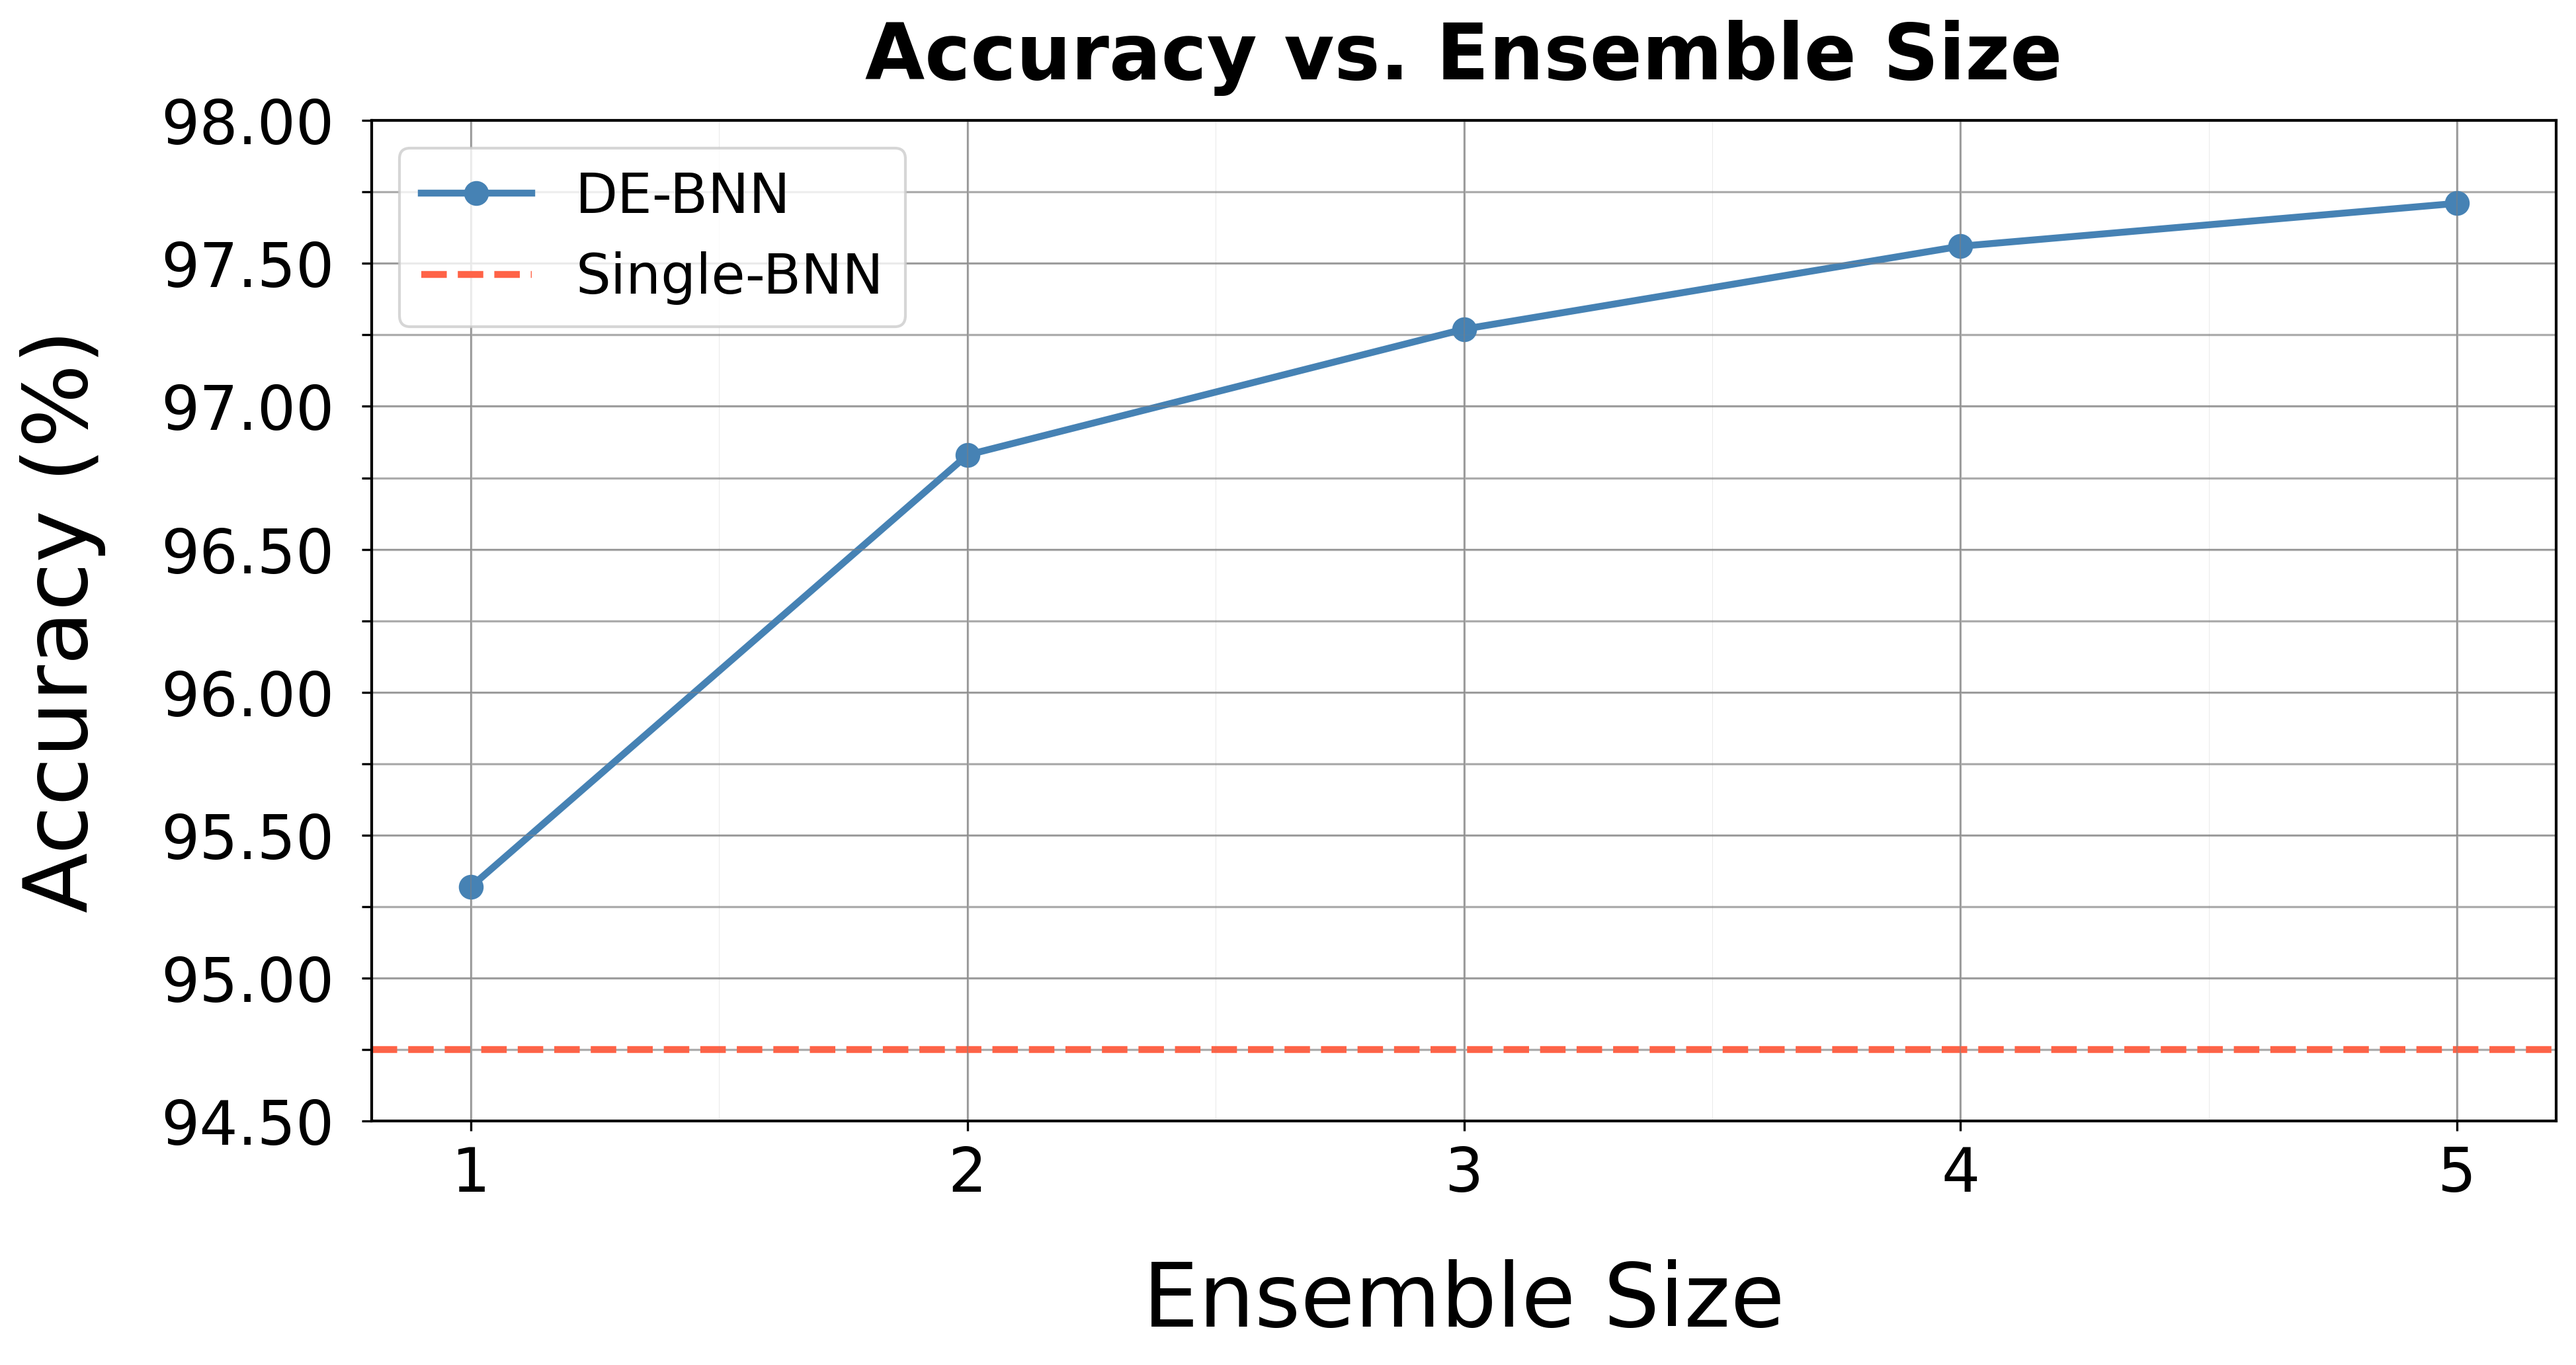
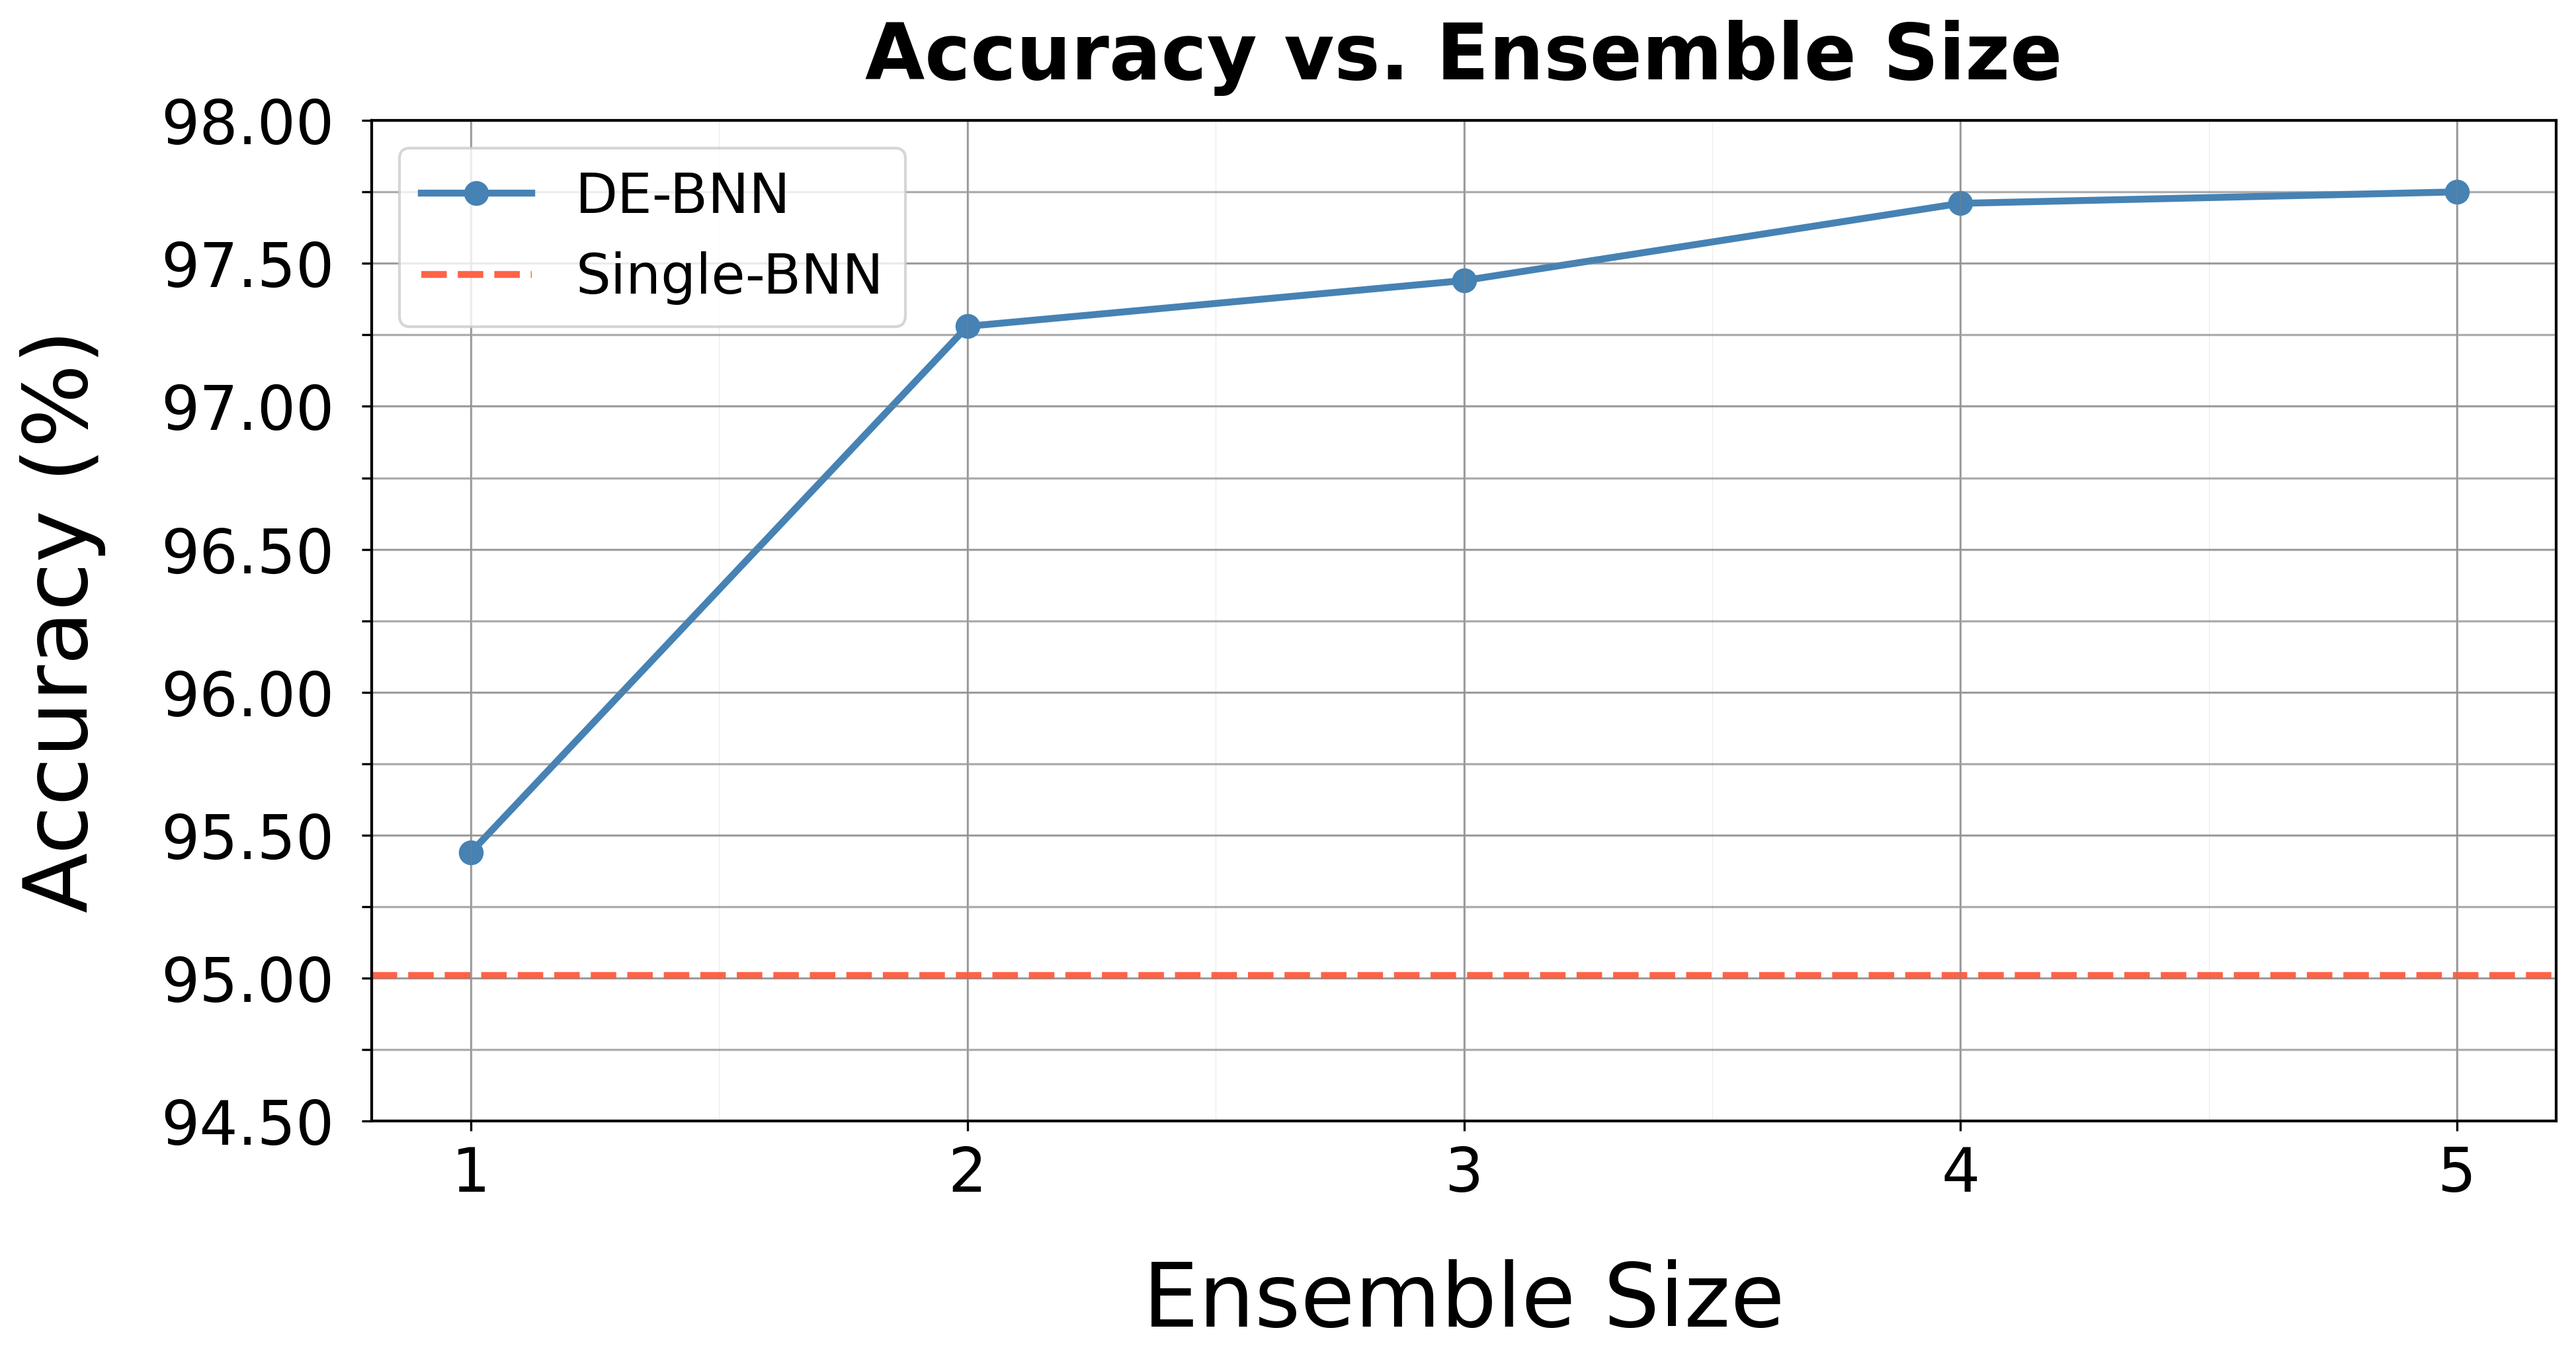
Changes

diff --git a/plots/Plots_main.py b/plots/Plots_main.py
@@ -8,7 +8,7 @@ from sklearn.model_selection import train_test_split
 import pandas as pd
 import matplotlib.pyplot as plt
 from Model_Code.Save_and_Load_Models import save_bnn_model, load_bnn_model
-from Model_Code.Ensemble_helper import train_deep_ensemble, evaluate_model, ensemble_predict_proba
+from Model_Code.Ensemble_helper import train_deep_ensemble, evaluate_model, ensemble_predict_proba, TestAccCB
 import matplotlib.ticker as mtick
 
 seed = 42
@@ -17,8 +17,8 @@ np.random.seed(seed)
 tf.random.set_seed(seed)
 
 #%% Load MNIST or CIFAR-10 and apply preprocessing
-(x_train_full, y_train_full), (x_test, y_test) = tf.keras.datasets.cifar10.load_data()
-#(x_train_full, y_train_full), (x_test, y_test) = tf.keras.datasets.mnist.load_data()  # Uncomment if using MNIST
+#(x_train_full, y_train_full), (x_test, y_test) = tf.keras.datasets.cifar10.load_data()
+(x_train_full, y_train_full), (x_test, y_test) = tf.keras.datasets.mnist.load_data()  # Uncomment if using MNIST
 
 # Normalize pixel values
 x_train_full = x_train_full.astype("float32") / 255.0
@@ -57,7 +57,7 @@ ensemble = []
 
 #%% Train DE-BNN
 
-ensemble = train_deep_ensemble(x_train, y_train, x_val, y_val, input_shape, num_classes, epochs = 20, n_models=5)
+ensemble = train_deep_ensemble(x_train, y_train, x_val, y_val, input_shape, num_classes, epochs = 10, n_models=5)
 
 # 1. Instantiate your model
 single_bnn = ConvolutionalBNN(
@@ -71,14 +71,30 @@ single_bnn = ConvolutionalBNN(
 # 2. Compile your model
 single_bnn.compile()
 
-# 3. Train the model
+# Dummy-Fit, damit Label-Mapping entsteht (einmal reicht)
+_ = single_bnn.fit(
+    x_train,
+    y_train,
+    epochs=1,
+    batch_size=64,
+    verbose=0
+)
+
+test_acc_cb = TestAccCB(
+    x_test=x_test,
+    y_test=y_test,
+    index_to_label=single_bnn.index_to_label
+)
+
+# 3. Jetzt Training mit Callback
 history = single_bnn.fit(
     x_train,
     y_train,
     validation_data=(x_val, y_val),
-    epochs=100,         # or any desired number of epochs
-    batch_size=64,    # or any suitable batch size
-    verbose=1
+    epochs=50,
+    batch_size=64,
+    verbose=1,
+    callbacks=[test_acc_cb]
 )
 
 #%% Evaluate both models
@@ -114,61 +130,45 @@ for k in range(1, len(ensemble) + 1):
 df_ensemble_metrics = pd.DataFrame(results_per_size)
 print(df_ensemble_metrics)
 
-plots = plot_ensemble_metrics(df_ensemble_metrics, evaluate_model(y_test, y_proba_single, num_classes=10) , mnist=False)
+plots = plot_ensemble_metrics(df_ensemble_metrics, evaluate_model(y_test, y_proba_single, num_classes=10) , mnist=True)
 
 save_plots(plots, output_dir="plots/Saved_Plots/Plots_fair_comparison")
 
 #Train/Val/Test Accuracy plot
-num_epochs = 100
-batch_size = 64
+epochs = range(1, len(history.history['accuracy']) + 1)
 
-train_accs = []
-val_accs = []
-test_accs = []
+train_accs = history.history['accuracy']
+val_accs = history.history['val_accuracy']
+test_accs = test_acc_cb.scores
+epochs = range(1, len(train_accs) + 1)
 
-for epoch in range(num_epochs):
-    # Accuracy on train, val, test
-    train_acc = single_bnn.evaluate_accuracy(x_train, y_train)
-    val_acc = single_bnn.evaluate_accuracy(x_val, y_val)
-    test_acc = single_bnn.evaluate_accuracy(x_test, y_test)
-
-    train_accs.append(train_acc)
-    val_accs.append(val_acc)
-    test_accs.append(test_acc)
-
-    print(f"Epoch {epoch + 1:02d}: Train={train_acc:.4f}  Val={val_acc:.4f}  Test={test_acc:.4f}")
-
-epochs = np.arange(1, num_epochs + 1)
 fig, ax = plt.subplots(figsize=(12, 6))
 
-ax.plot(epochs, train_accs, label='Train Accuracy', color = "dodgerblue")
-ax.plot(epochs, val_accs, label='Validation Accuracy', color = "darkorange")
-ax.plot(epochs, test_accs, label='Test Accuracy', color = "darkslategray")
+ax.plot(epochs, train_accs, label='Train Accuracy', color="dodgerblue")
+ax.plot(epochs, val_accs, label='Validation Accuracy', color="darkorange")
+ax.plot(epochs, test_accs, label='Test Accuracy', color="darkslategray")
 
 ax.set_xlabel('Epoch')
 ax.set_ylabel('Accuracy')
 ax.set_title('Learning Curve (Train/Val/Test)', fontweight='bold')
 
 ax.set_xlim(0, 50)
-ax.set_ylim(0.75, 0.96)  # Optional: set this tighter to your range, or use 0,1 for full percent scale
+ax.set_ylim(0.7, 1.0)
 
-# Format y-axis as percent
 ax.yaxis.set_major_formatter(mtick.PercentFormatter(xmax=1.0, decimals=0))
 ax.set_xticks(np.arange(0, 51, 5))
 
-# Bigger legend
 ax.legend(fontsize=16, loc='lower right')
-
 ax.grid(True)
 fig.tight_layout()
-
 apply_custom_theme(ax)
+
 plt.show()
 
 all_acc_single = [
     (fig, "all_acc_single_bnn", ".png")   # Dateiname: learning_curve_single_bnn.png
 ]
-"""save_plots(all_acc_single, output_dir="plots/Saved_Plots/Plots_fair_comparison")"""
+save_plots(all_acc_single, output_dir="plots/Saved_Plots/Plots_fair_comparison")
 
 """save_bnn_model(single_bnn, "Single_Model_CIFAR10")
 

diff --git a/Model_Code/Ensemble_helper.py b/Model_Code/Ensemble_helper.py
@@ -92,3 +92,19 @@ def evaluate_model(y_true, y_proba, num_classes=10):
         "Predictive Entropy": entropy_val,
         "ECE": ece_val
     }
+
+class TestAccCB(tfk.callbacks.Callback):
+    def __init__(self, x_test, y_test, index_to_label):
+        super().__init__()
+        self.x_test = x_test
+        self.y_test = y_test
+        self.index_to_label = index_to_label
+        self.scores = []
+    def on_epoch_end(self, epoch, logs=None):
+        logits = self.model(self.x_test, training=False).numpy()  # <-- das ist korrekt!
+        preds = np.argmax(logits, axis=1)
+        y_true = [self.index_to_label[int(i)] for i in self.y_test]
+        y_pred = [self.index_to_label[int(i)] for i in preds]
+        from sklearn.metrics import accuracy_score
+        acc = accuracy_score(y_true, y_pred)
+        self.scores.append(acc)

diff --git a/Model_Code/ConvolutionalBNN_Model.py b/Model_Code/ConvolutionalBNN_Model.py
@@ -135,7 +135,8 @@ class ConvolutionalBNN:
                 random_state = random.randint(0, 10_000_000)
             X_train, y_train = shuffle(X_train, y_train, random_state=random_state)
 
-        self.model.fit(X_train, y_train, validation_data=validation_data, verbose=verbose, **kwargs)
+        history = self.model.fit(X_train, y_train, validation_data=validation_data, verbose=verbose, **kwargs)
+        return history
 
     def predict_logits(self, X_test):
         """
